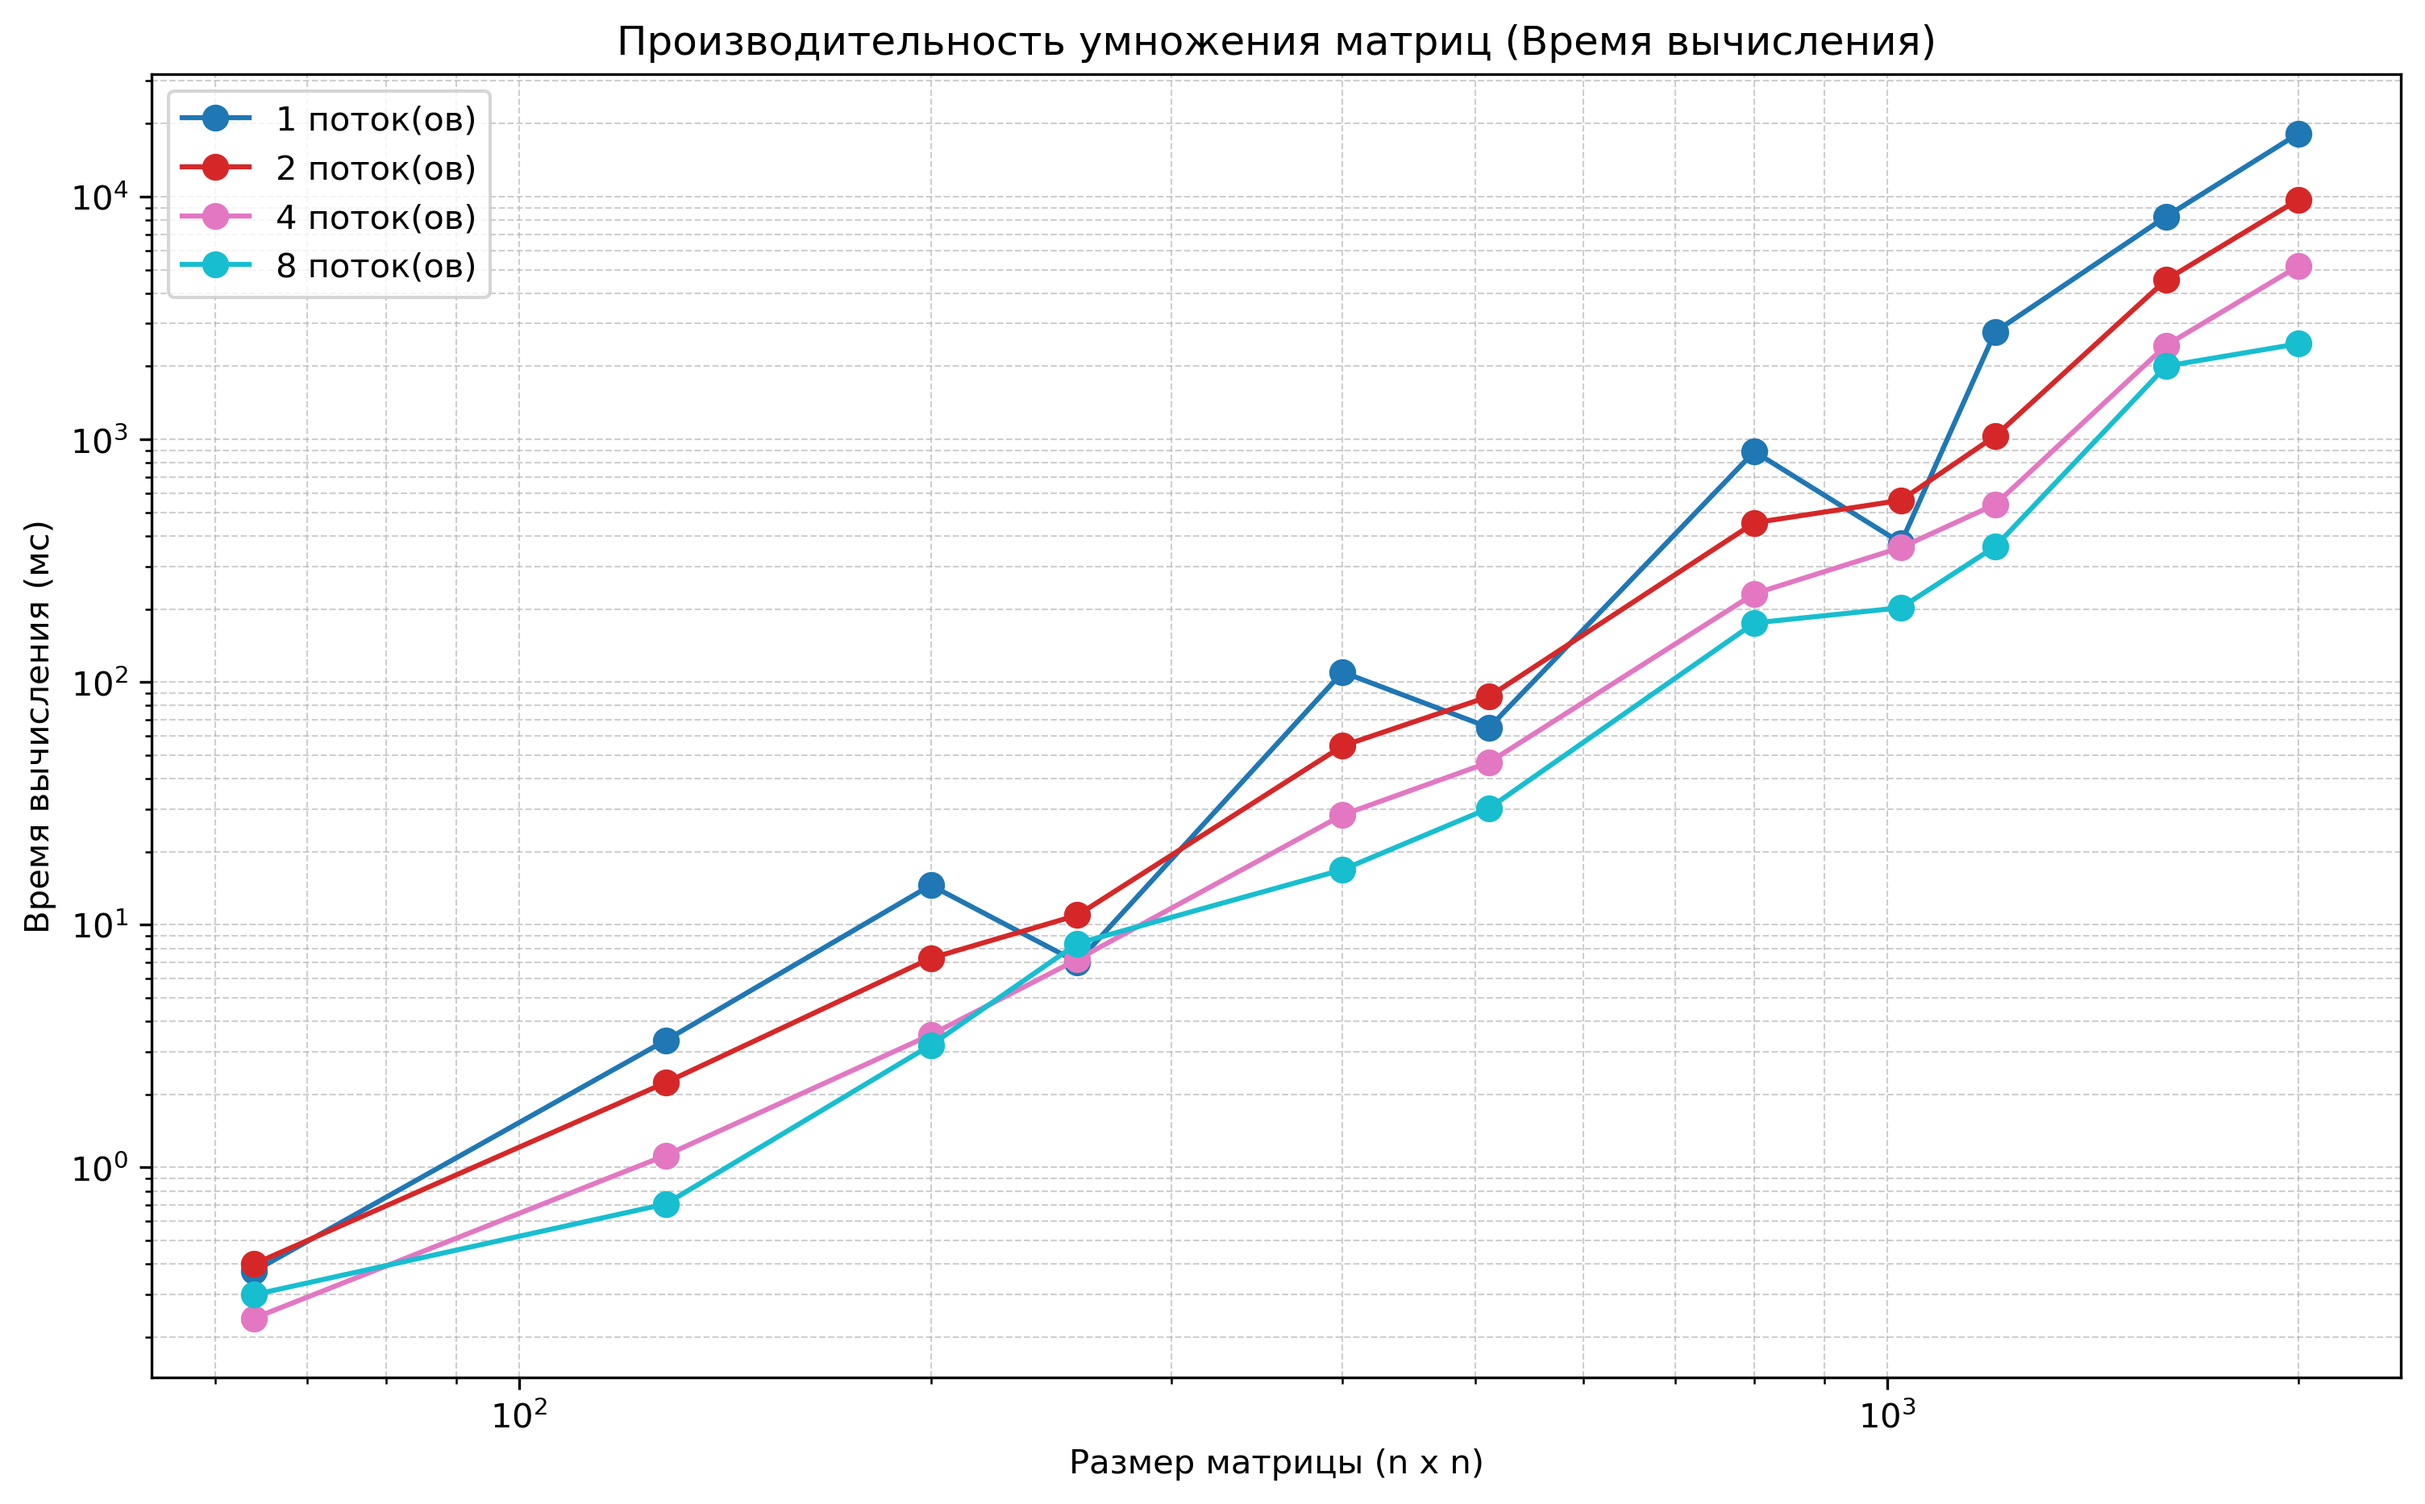
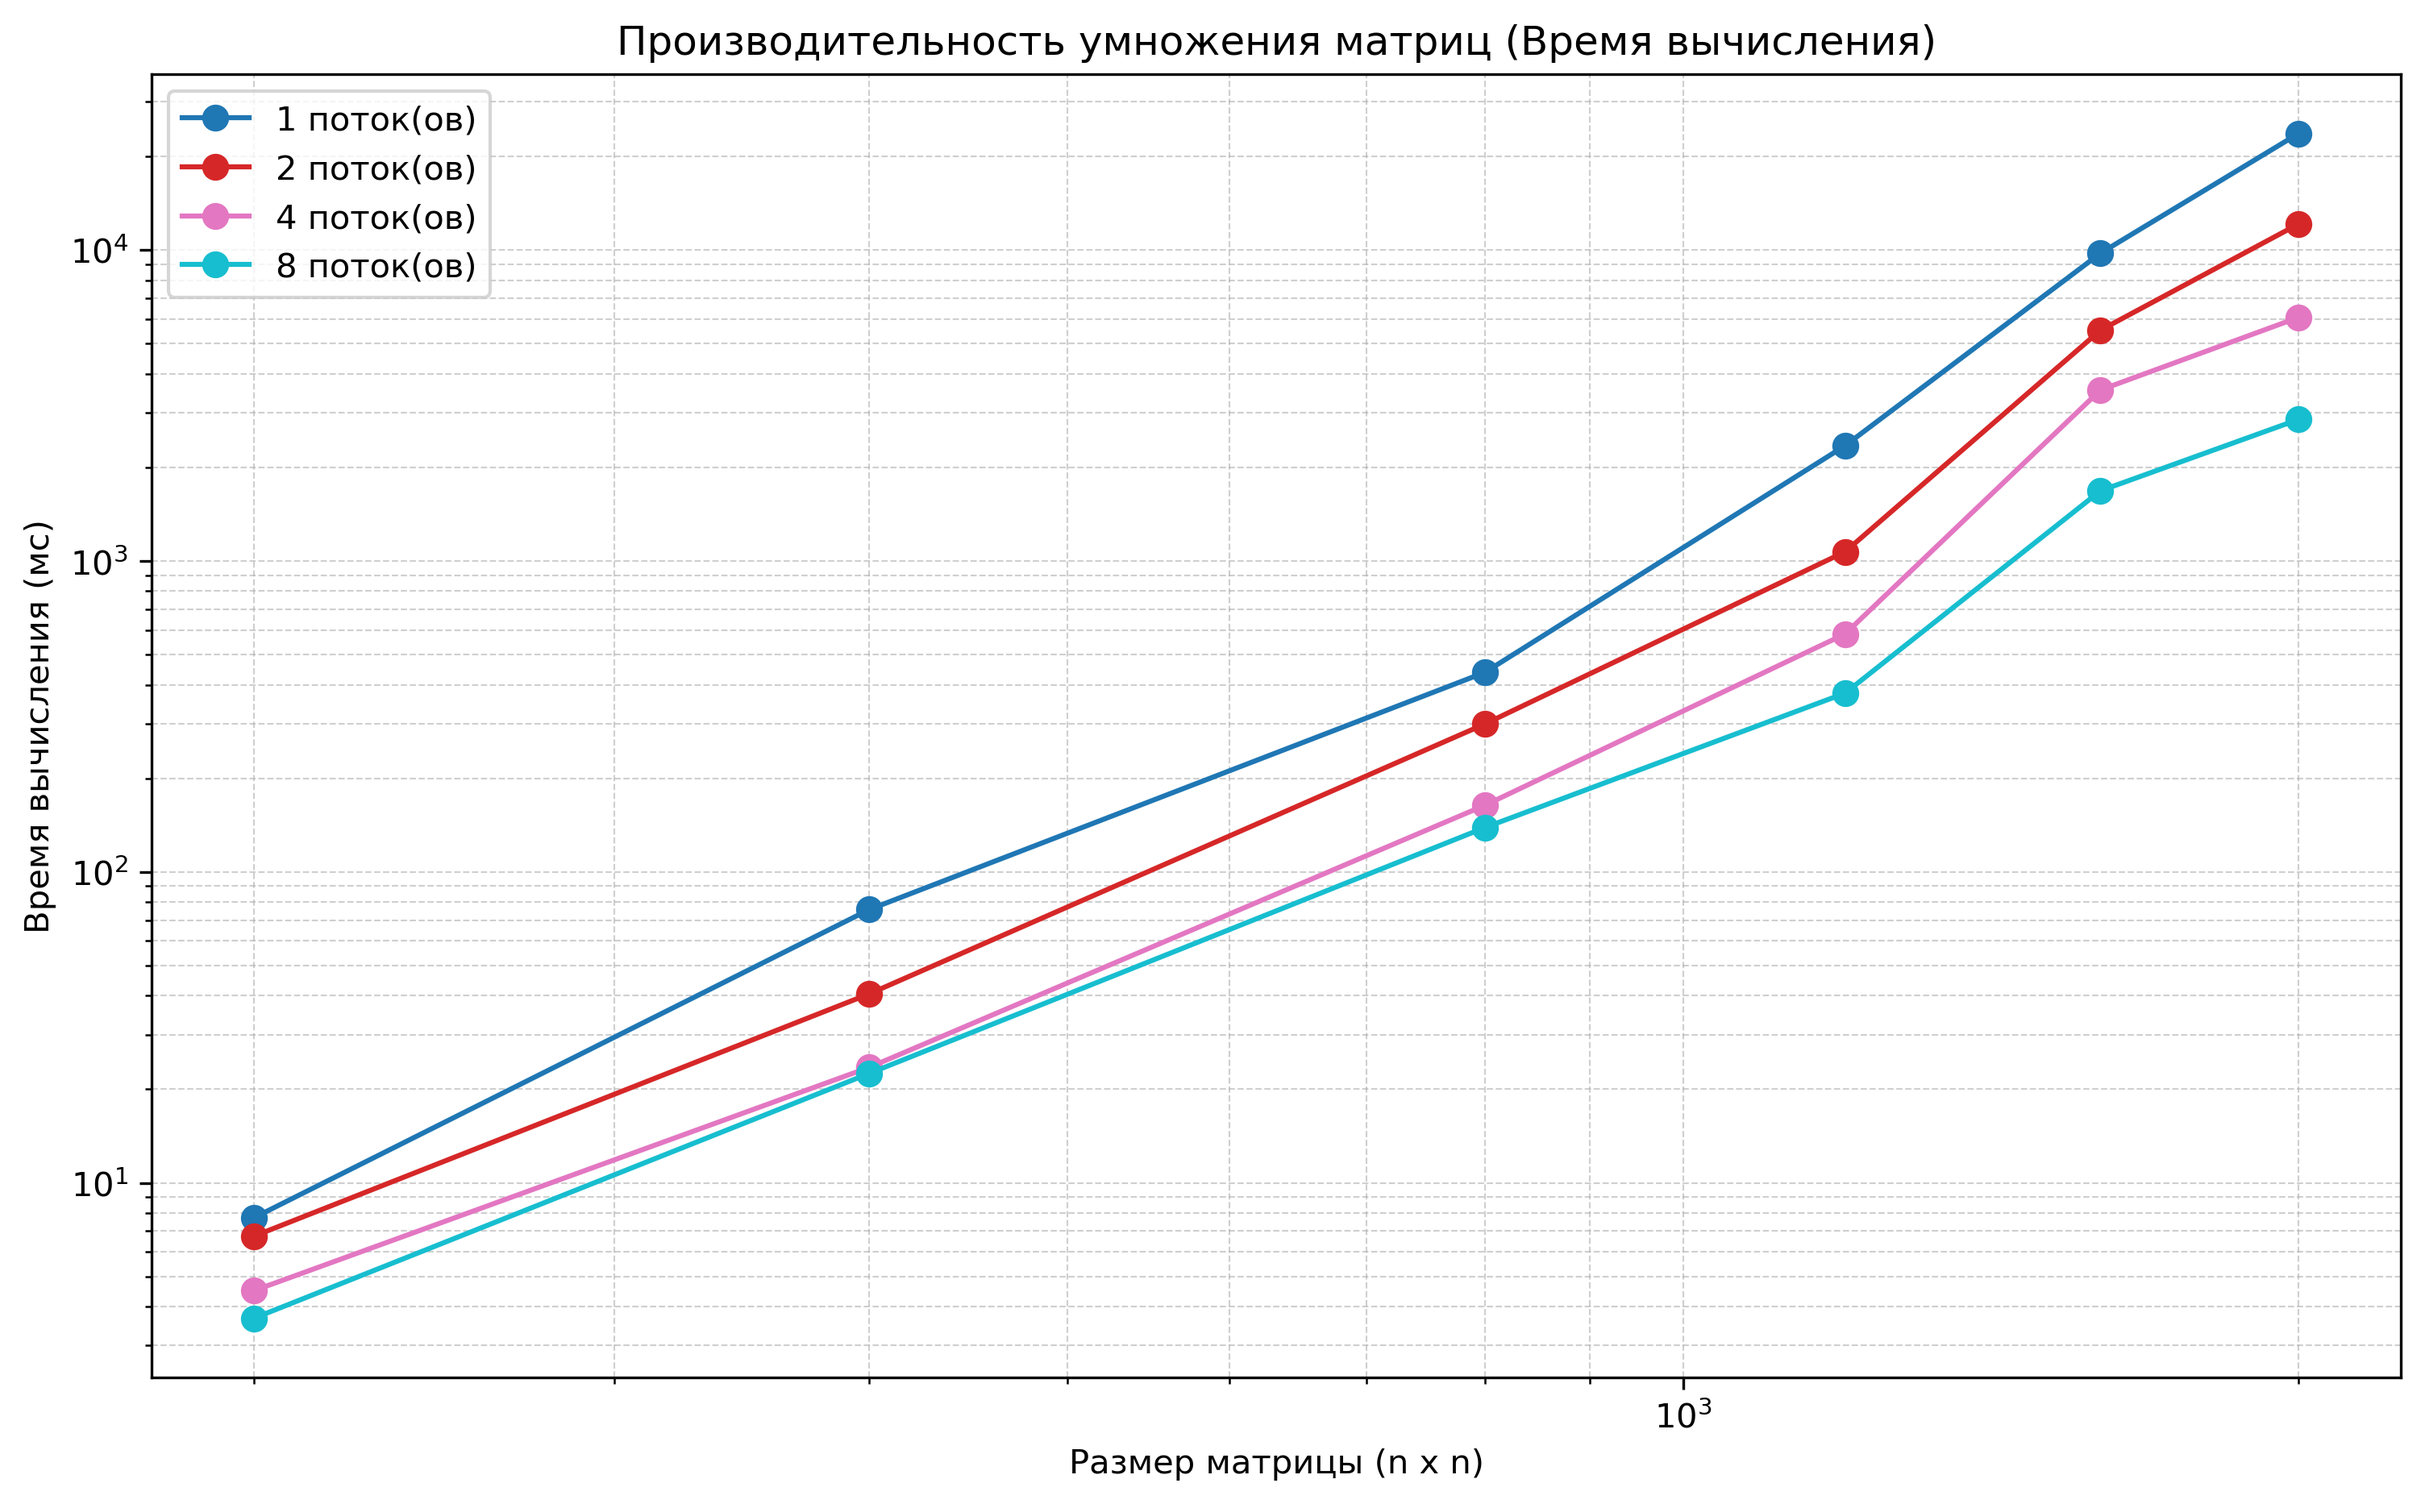
+res lab 2

diff --git a/LABA_2/plot.py b/LABA_2/plot.py
@@ -1,72 +1,96 @@
-
 import pandas as pd
+import matplotlib
+matplotlib.use('Agg')  # без окон — только сохранение в файл (решает ошибку Qt/Wayland)
 import matplotlib.pyplot as plt
 import numpy as np
 
+# ─── Загрузка данных ─────────────────────────────────────────
 try:
     df = pd.read_csv('result/timings.csv')
-    print("--- Загруженные данные ---")
-    print(df.to_string(index=False))
-    print("--------------------------\n")
 except FileNotFoundError:
-    print("Ошибка: Файл result/timings.csv не найден. Пожалуйста, запустите benchmark.sh перед запуском plot.py.")
+    print("Ошибка: Файл result/timings.csv не найден. Запустите benchmark.sh")
     exit(1)
 except Exception as e:
     print(f"Ошибка при чтении файла: {e}")
     exit(1)
-try:
-  colors = plt.get_cmap('tab10', len(df['threads'].unique()))
-except AttributeError: 
-  colors = plt.cm.get_cmap('tab10', len(df['threads'].unique()))
 
+# ✅ КЛЮЧЕВОЕ ИСПРАВЛЕНИЕ: убираем дубликаты (benchmark мог запускаться несколько раз)
+df = df.drop_duplicates(subset=['size', 'threads'], keep='last')
+df = df.sort_values(['size', 'threads']).reset_index(drop=True)
+
+print("--- Загруженные данные ---")
+print(df.to_string(index=False))
+print("--------------------------\n")
+
+# Цвета для графиков
+colors = plt.colormaps['tab10'].resampled(len(df['threads'].unique()))
+
+# ═══════════════════════════════════════════════════════════════
+# График 1: Производительность (время vs размер матрицы)
+# ═══════════════════════════════════════════════════════════════
 plt.figure(figsize=(12, 7))
 unique_threads = sorted(df['threads'].unique())
 
 for idx, t in enumerate(unique_threads):
     data_for_thread = df[df['threads'] == t].sort_values('size')
-    plt.plot(data_for_thread['size'], data_for_thread['compute_time'], marker='o', linestyle='-',
-             color=colors(idx), label=f'{t} поток(ов)', markersize=7)
+    plt.plot(data_for_thread['size'], data_for_thread['compute_time'],
+             marker='o', linestyle='-', color=colors(idx),
+             label=f'{t} поток(ов)', markersize=7)
 
 plt.xlabel('Размер матрицы (n x n)')
 plt.ylabel('Время вычисления (мс)')
 plt.title('Производительность умножения матриц (Время вычисления)')
 plt.legend()
 plt.grid(True, which="both", linestyle='--', linewidth=0.5, alpha=0.6)
-
 plt.xscale('log')
 plt.yscale('log')
-
 plt.savefig('result/compute_time_performance.png', dpi=300, bbox_inches='tight')
-print("График 'compute_time_performance.png' сохранен.")
+print("График 'compute_time_performance.png' сохранён.")
+plt.close()
 
-plt.figure(figsize=(12, 7)) 
+# ═══════════════════════════════════════════════════════════════
+# График 2: Ускорение (speedup vs потоки)
+# ═══════════════════════════════════════════════════════════════
+plt.figure(figsize=(12, 7))
 
-seq_times_df = df[df['threads'] == 1].set_index('size')
+# Берём только последний замер для каждого (size, threads)
+# и формируем таблицу: строки = size, столбцы = threads
+pivot = df.pivot_table(index='size', columns='threads',
+                       values='compute_time', aggfunc='last')
 
-for size in sorted(df['size'].unique()):
-    seq_time = seq_times_df.loc[size, 'compute_time'] 
-    data_for_size = df[(df['size'] == size) & (df['threads'] > 1)].sort_values('threads') 
+for idx, size in enumerate(sorted(pivot.index)):
+    # ✅ Берём скаляр: .loc[size, 1] возвращает одно число
+    if 1 not in pivot.columns:
+        print(f"Предупреждение: нет данных для threads=1 при size={size}, пропуск")
+        continue
 
-    current_threads = data_for_size['threads'].values
-    current_compute_times = data_for_size['compute_time'].values
+    seq_time = pivot.loc[size, 1]  # scalar!
 
-    speedups = np.where(current_compute_times > 0, seq_time / current_compute_times, np.nan)
+    # Все потоки > 1 для этого размера
+    thread_cols = [t for t in sorted(pivot.columns) if t > 1]
+    if not thread_cols:
+        continue
 
-    plt.plot(current_threads, speedups, marker='o', linestyle='-',
-             color=colors(unique_threads.index(data_for_size['threads'].iloc[0]) if data_for_size['threads'].iloc[0] in unique_threads else 0),
-             label=f'n={size}', markersize=7)
+    current_times = pivot.loc[size, thread_cols].values.astype(float)
+    speedups = np.where(current_times > 0, seq_time / current_times, np.nan)
 
-plt.plot(unique_threads, unique_threads, 'k--', label='Идеальное ускорение (Y=X)', linewidth=2)
+    plt.plot(thread_cols, speedups, marker='o', linestyle='-',
+             color=colors(idx), label=f'n={size}', markersize=7)
+
+# Идеальная линия
+max_threads = max(unique_threads)
+plt.plot(unique_threads, unique_threads, 'k--',
+         label='Идеальное ускорение (Y=X)', linewidth=2)
 
 plt.xlabel('Количество потоков')
 plt.ylabel('Ускорение (Speedup)')
 plt.title('Ускорение в зависимости от количества потоков')
 plt.legend()
 plt.grid(True, which="both", linestyle='--', linewidth=0.5, alpha=0.6)
-plt.xscale('log') 
-plt.yscale('log') 
-
+plt.xscale('log')
+plt.yscale('log')
 plt.savefig('result/speedup.png', dpi=300, bbox_inches='tight')
-print("График 'speedup.png' сохранен.")
+print("График 'speedup.png' сохранён.")
+plt.close()
 
-plt.show() 
+print("\nГотово! Графики в result/")

diff --git a/LABA_2/README.md b/LABA_2/README.md
@@ -1,0 +1,58 @@
+# Лабораторная работа №2: Параллельное умножение матриц (OpenMP)
+
+| Поле        | Значение                                  |
+|-------------|-------------------------------------------|
+| **Студент** | Назинкина Вероника Александровна          |
+| **Группа**  | 6201-120304D                             |
+| **Предмет** | Основы параллельных вычислений            |
+| **Дата**    | 24 мая 2026                               |
+
+---
+
+## 1. Цель работы
+
+Модифицировать программу умножения матриц из лабораторной работы №1
+для параллельного выполнения с использованием технологии **OpenMP**.
+Провести серию экспериментов с различным количеством потоков (1, 2, 4, 8)
+и различных размеров матриц (200, 400, 800, 1200, 1600, 2000).
+
+---
+
+## 2. Средства и условия проведения экспериментов
+
+- **Язык программирования:** C++17
+- **Компилятор:** g++ с флагами `-O2 -fopenmp`
+- **Библиотека параллелизма:** OpenMP
+- **ОС:** Linux
+- **Инструменты:** Make, Python 3, NumPy, Matplotlib, Pandas
+
+---
+
+## 3. Описание алгоритма
+
+### 3.1. Последовательное умножение
+
+Классическое умножение двух квадратных матриц $A$ и $B$ размера $n \times n$
+вычисляется по формуле:
+
+$$C[i][j] = \sum_{k=0}^{n-1} A[i][k] \cdot B[k][j]$$
+
+Общее количество операций (умножений + сложений):
+
+$$V = 2n^3 - n^2$$
+
+Сложность алгоритма — $O(n^3)$.
+
+### 3.2. Параллельное умножение (OpenMP)
+
+Используется директива:
+
+```cpp
+#pragma omp parallel for collapse(2)
+for (int i = 0; i < n; i++)
+    for (int j = 0; j < n; j++) {
+        double sum = 0.0;
+        for (int k = 0; k < n; k++)
+            sum += A[i][k] * B[k][j];
+        C[i][j] = sum;
+    }
